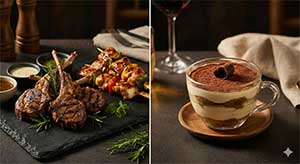
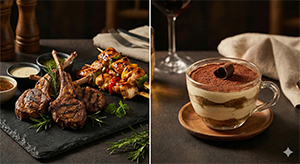
Remove create and edit actions from reservation list and view pages, and update grillades image.

diff --git a/app/Filament/Resources/Reservations/Pages/ListReservations.php b/app/Filament/Resources/Reservations/Pages/ListReservations.php
@@ -12,8 +12,6 @@ class ListReservations extends ListRecords
 
     protected function getHeaderActions(): array
     {
-        return [
-            CreateAction::make(),
-        ];
+        return [];
     }
 }

diff --git a/app/Filament/Resources/Reservations/Pages/ViewReservation.php b/app/Filament/Resources/Reservations/Pages/ViewReservation.php
@@ -12,8 +12,6 @@ class ViewReservation extends ViewRecord
 
     protected function getHeaderActions(): array
     {
-        return [
-            EditAction::make(),
-        ];
+        return [];
     }
 }
